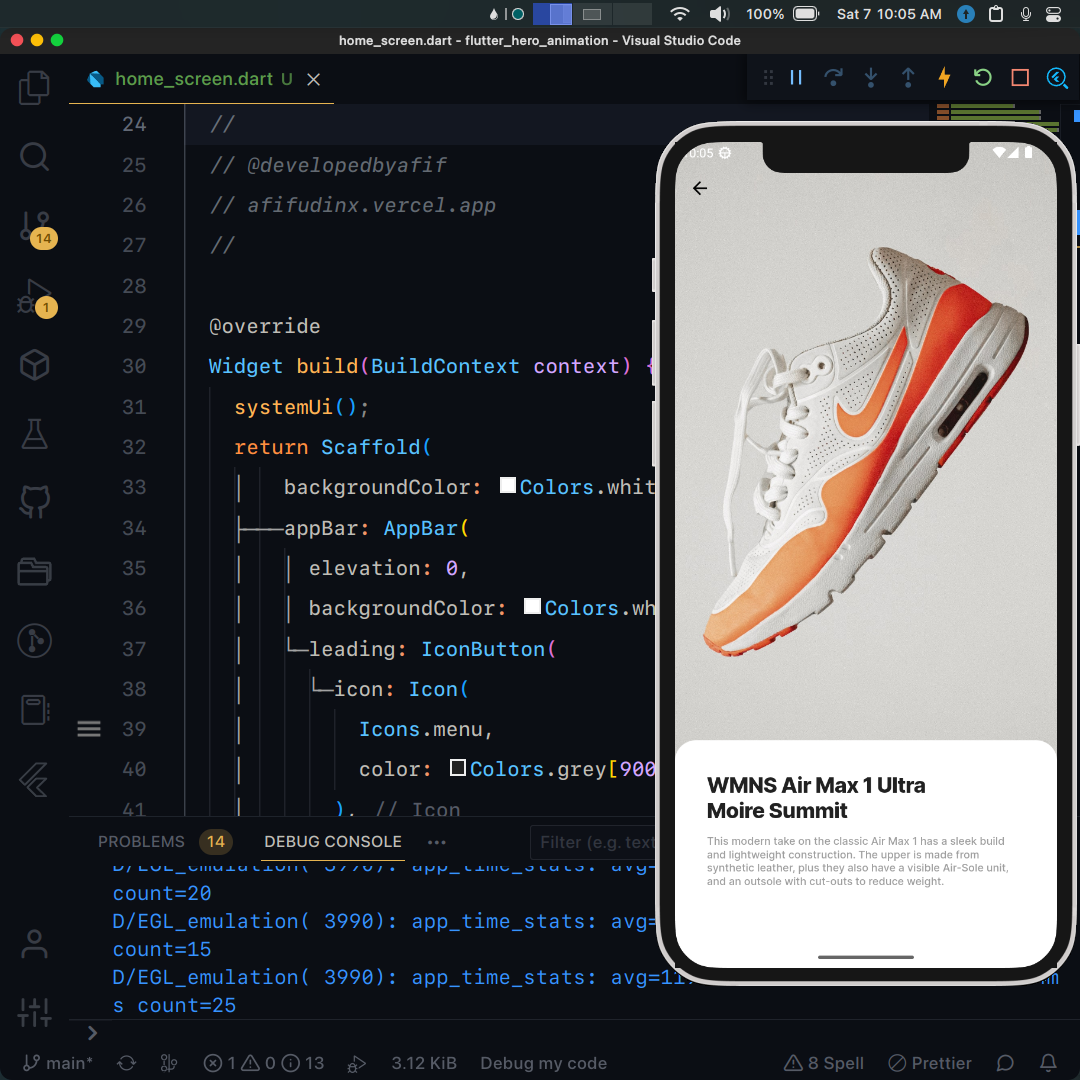
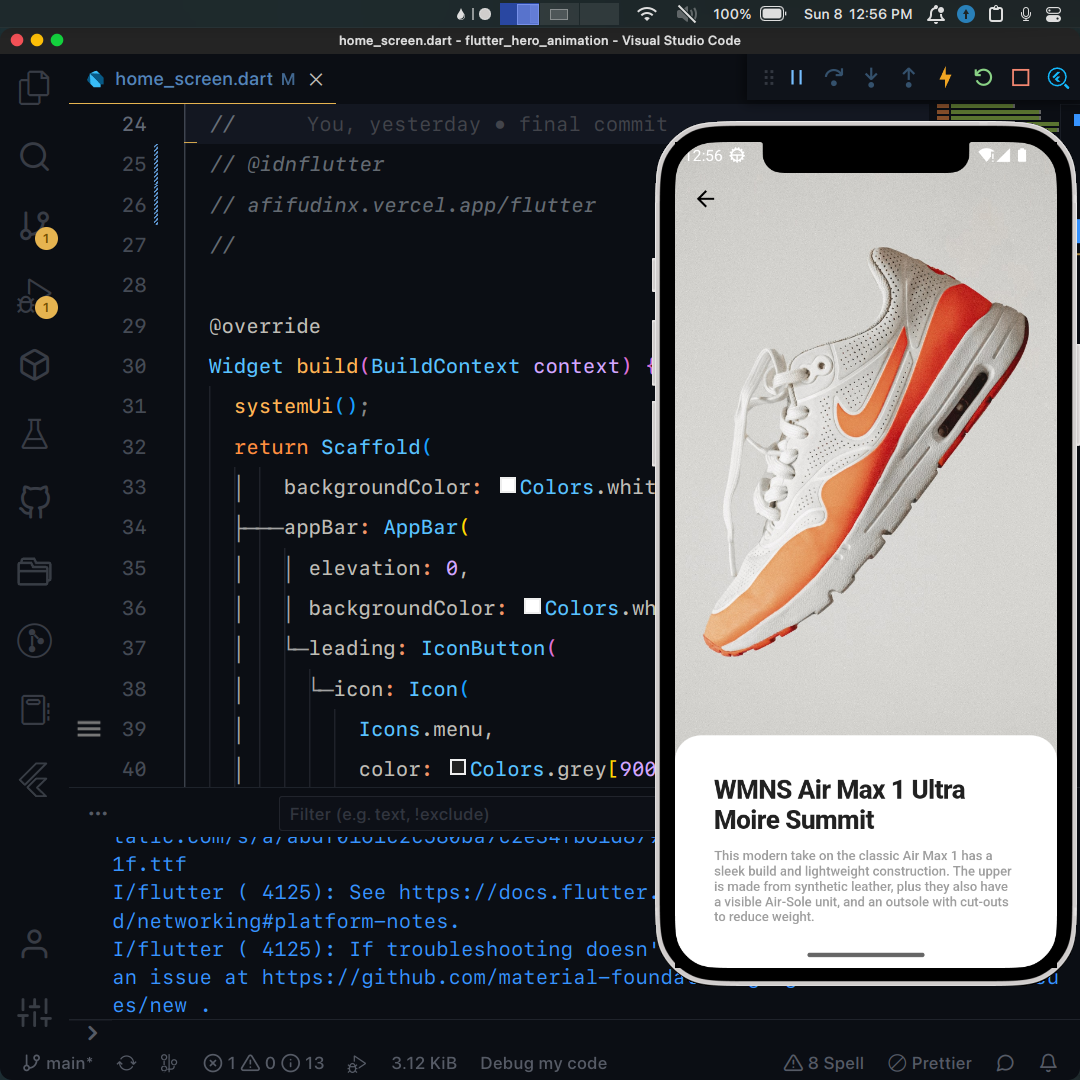
Fix credit and screenshot

diff --git a/lib/screens/home_screen.dart b/lib/screens/home_screen.dart
@@ -22,8 +22,8 @@ class _HomeScreenState extends State<HomeScreen> {
   ];
 
   //
-  // @developedbyafif
-  // afifudinx.vercel.app
+  // @idnflutter
+  // afifudinx.vercel.app/flutter
   //
 
   @override
